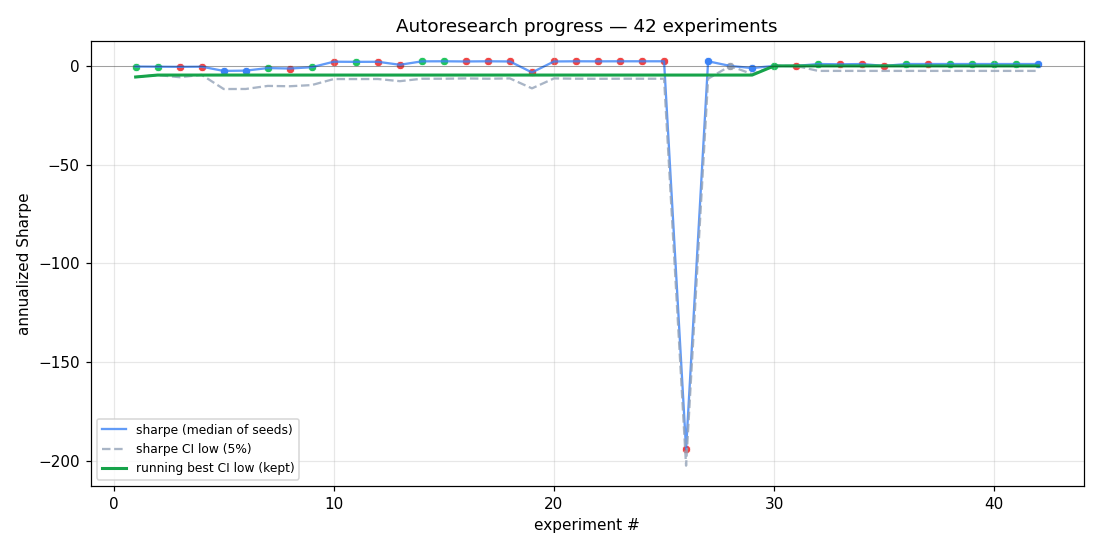
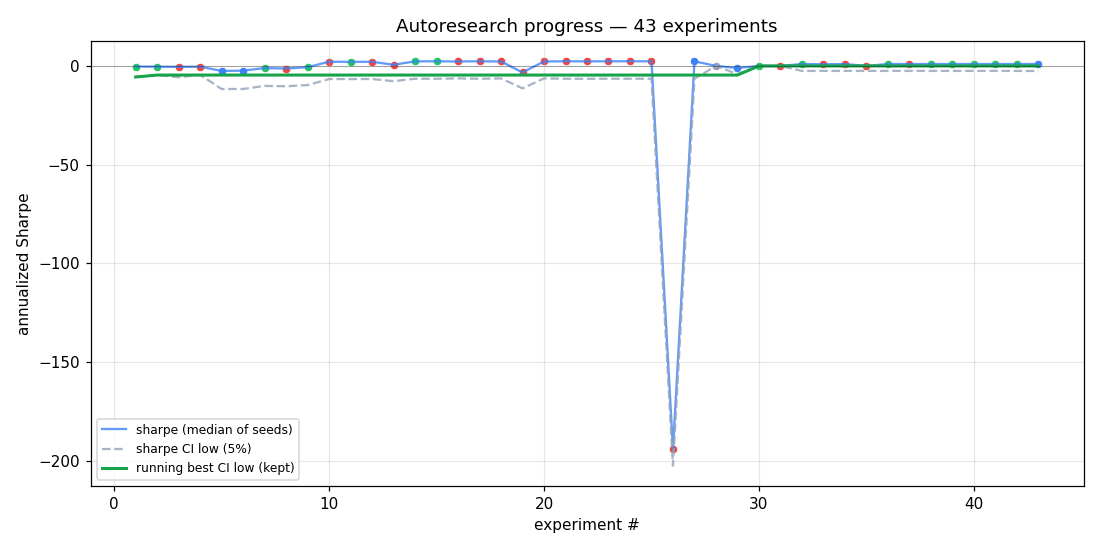
exp39 DISCARD ⚠ — weighted-only refactor regressed performance
cap=0.95 + RL-pretrain-removed dropped sharpe +1.79→+0.97 and pnl
+$5551→+$683. The RL pretrain phase was apparently doing useful work
on the shared transformer encoder via gradient flow, even though the
weighted strategy doesn't use the action head it trained.

DD also dropped (-16.6→-8.3%) — strategy became overly conservative,
suggesting the forecast head is now less confident. Will re-baseline
on v6 (20 syms × 6yr) next; may need to restore RL pretrain.

Also gitignore the *.log files that pile up across runs.

diff --git a/README.md b/README.md
@@ -124,44 +124,36 @@ A **broken** result: lines fan out wildly, some up some down, dense forest of ve
 
 <!-- RESULTS_START -->
 
-_Last updated: 2026-04-30 20:58 UTC_  
-_Total experiments: **42**  ·  kept: **14**  ·  latest commit: `37936b9`_
+_Last updated: 2026-04-30 21:08 UTC_  
+_Total experiments: **43**  ·  kept: **15**  ·  latest commit: `43ac1b9`_
 
-### Latest experiment — primary strategy (full portfolio)
-
-![equity curve](docs/equity_latest.png)
-
-### Latest experiment — best-stock picker (secondary strategy)
-
-![picker equity](docs/picker_latest.png)
-
-### Latest experiment — weighted dynamic sizing (Strategy 3)
+### Weighted strategy — full eval window (~73 days)
 
 ![weighted equity](docs/weighted_latest.png)
 
-### Strategy comparison @ this checkpoint
+### Weighted strategy — first month of eval
 
-| Strategy | Sharpe | Net PnL | PnL % | Max DD % | Trades | Fees |
-|---|---:|---:|---:|---:|---:|---:|
-| Primary (full portfolio every-bar) | +0.961 | $+193.93 | +0.388% | **-1.34%** 🏆 | 12 | $12.00 |
-| Picker (best-stock, $1k cooldown 5min) | -6.330 | $-6,882.72 | -13.765% | -17.59% | 4365 | $4365.00 |
-| Weighted (Kelly-sized, max 20% free cash, ≤5/step) | **+1.785** 🏆 | **$+5,551.19** 🏆 | +11.102% | -16.59% | 3 | $3.00 |
-| **SP500 (SPY) buy-and-hold** — passive benchmark | +1.204 | $+1,964.67 | +3.929% | -9.45% | 1 | **$1.00** 🏆 |
+![weighted 1m](docs/weighted_1m_latest.png)
 
-**Best by Sharpe:** Weighted (Kelly-sized, max 20% free cash, ≤5/step)
+### Strategy vs SPY benchmark
 
-### Detailed metrics — primary strategy
+| Strategy | Sharpe | Net PnL | PnL % | Max DD % | Trades | Fees | % time > SPY |
+|---|---:|---:|---:|---:|---:|---:|---:|
+| Weighted (Kelly-sized, max 20% free cash, ≤5/step) | +0.969 | $+682.90 | +1.366% | **-8.32%** 🏆 | 5 | $5.00 | **0%** 🏆 |
+| **SP500 (SPY) buy-and-hold** — passive benchmark | **+1.320** 🏆 | **$+14,375.39** 🏆 | +28.751% | -16.27% | 1 | **$1.00** 🏆 | 0% |
+
+**Best by Sharpe:** **SP500 (SPY) buy-and-hold** — passive benchmark
+
+### Detailed metrics — weighted strategy
 
 | metric | value |
 |---|---|
-| Sharpe (median over seeds) | **+0.961** |
-| Sharpe — bootstrap CI low (5%) | **-2.522** |
-| Sharpe — bootstrap CI high (95%) | +4.056 |
-| Max drawdown | -1.34% |
-| Net PnL | $+193.93 (+0.388%) |
-| Trades | 12 |
-| Fees / slippage | $12.00 / $1.14 |
-| Wall time | 1221.9s |
+| Sharpe (median over seeds) | **+0.969** |
+| Net PnL | $+682.90 (+1.366%) |
+| Max drawdown | -8.32% |
+| Trades | 5 |
+| % time above SPY | 0% |
+| Wall time | 539.6s |
 | Seeds completed | 3 |
 
 ### Progress over all experiments
